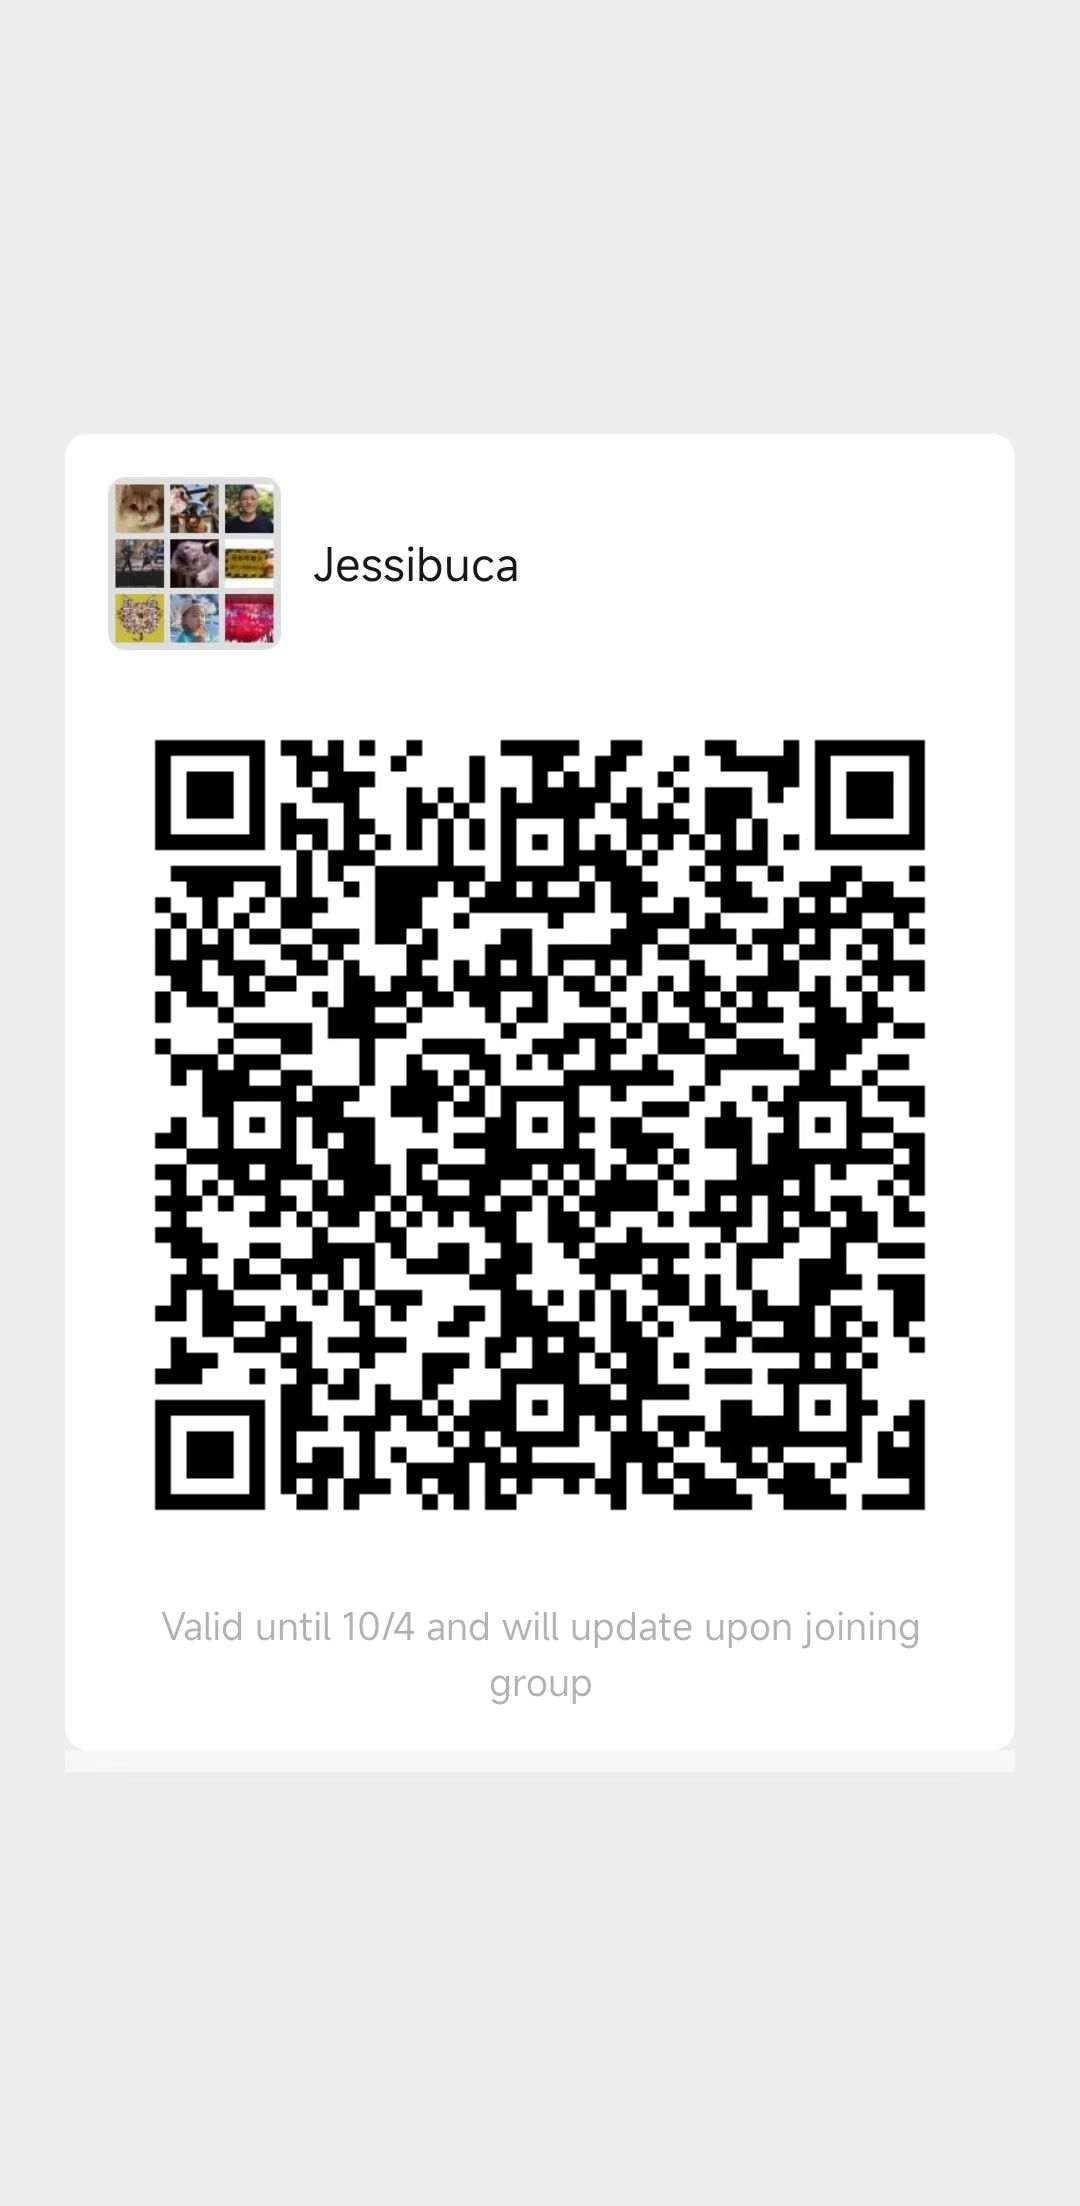
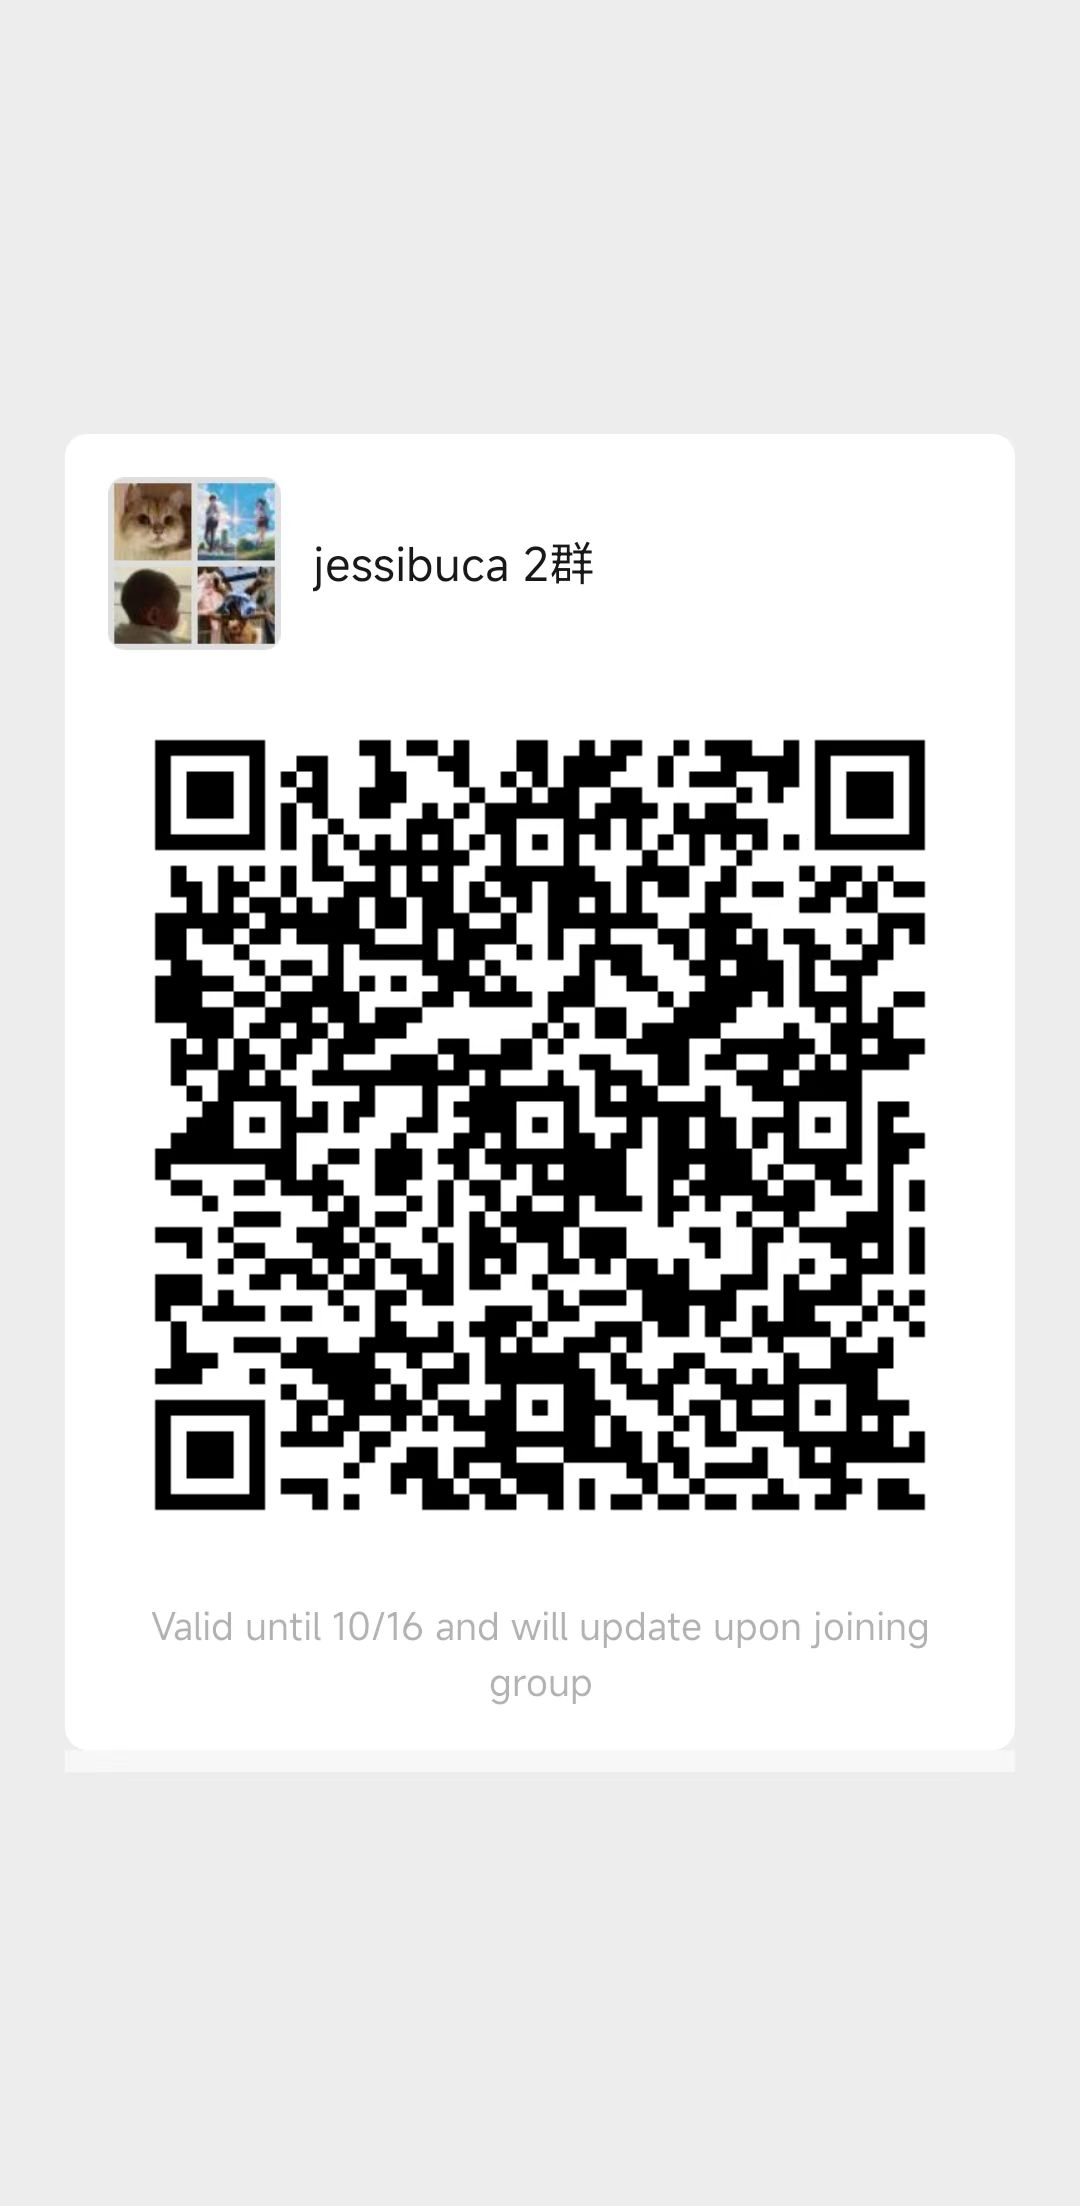
update qrcode

diff --git a/demo/pro.md b/demo/pro.md
@@ -11,7 +11,40 @@ jessibuca pro 是在开源版本的基础上额外支持的深入业务解决方
 -
 -
 -
-## PRO 版本支持的特性
+## 基础版本
+- 支持解码H.264视频(Baseline, Main, High Profile全支持，支持解码B帧视频)
+- 支持解码H.265视频（flv id == 12）
+- 支持解码AAC音频(LC,HE,HEv2 Profile全支持)
+- 支持解码PCMA音频以及PCMU音频格式
+- 可设置播放缓冲区时长，可设置0缓冲极限低延迟（网络抖动会造成卡顿现象）
+- 支持WASM智能不花屏丢帧，长时间播放绝不累积延迟。
+- 可创建多个播放实例
+- 程序精简，经CDN加速，GZIP压缩（实际下载500k），加载速度更快
+- 同时支持http-flv和websocket-flv协议以及websocket-raw私有协议（裸数据，传输量更小，需要搭配Monibuca服务器）
+  注：以http-flv请求时，存在跨域请求的问题，需要设置access-control-allow-origin, websocket-flv默认不存在此问题
+- 支持HTTPS/WSS加密视频传输，保证视频内容传输安全
+- 手机浏览器内打开视频不会变成全屏播放
+- 手机浏览器内打开长时间不会息屏
+- 支持解码8kHz PCM_ALAW, PCM_MULAW的G.711音频
+- 支持填充，等比，等比缩放 3中视频缩放模式
+- 支持0，90，180，270度画面旋转
+- 自带底部UI,支持原子化配置是否显示(播放/暂停、音量调节、截屏、录制/暂停录制、全屏/取消全屏、流量显示)
+- 自带底部UI适配H5移动端，并支持web端全屏(操作栏适配横屏)
+- 自带底部UI支持设置成自动隐藏，只有鼠标聚焦到播放器内部才会显示，移除之后，会消失。
+- 支持键盘快捷键
+- 支持OffscreenCanvas，提升Webgl渲染性能
+- 支持WebWorker多核解码，提升多画面播放性能
+- 支持WebCodecs硬件解码API
+- 支持WebCodecs硬件解码配置通过video标签渲染或者canvas标签渲染画面
+- 支持MediaSourceExtensions 硬件解码
+- 支持WebCodecs和MediaSourceExtensions硬解码失败的情况下自动切换到wasm软解码
+- 支持同一个播放地址视频分辨率发生变化的时候视频不花屏(仅软解码)
+- 支持同一个播放地址音频采样和编码发生改变的时候音频自动切换
+- 支持视频录制(WebM、MP4格式)，(MP4格式支持在IOS VLC播放器显示时长播放，Android VLC播放器无法显示时长播放,PC VLC播放器可以播放)
+
+
+
+## PRO 额外支持的
 - 支持开源版几乎所有的方法和事件，支持无缝升级到PRO版本。
 - wasm解码模式下默认work线程中发起Http-Flv、WS请求，减少主线程往worker线程传递数据，提升性能。
 - Windows系统下,360浏览器可播放使用MSE加速解码H265。
